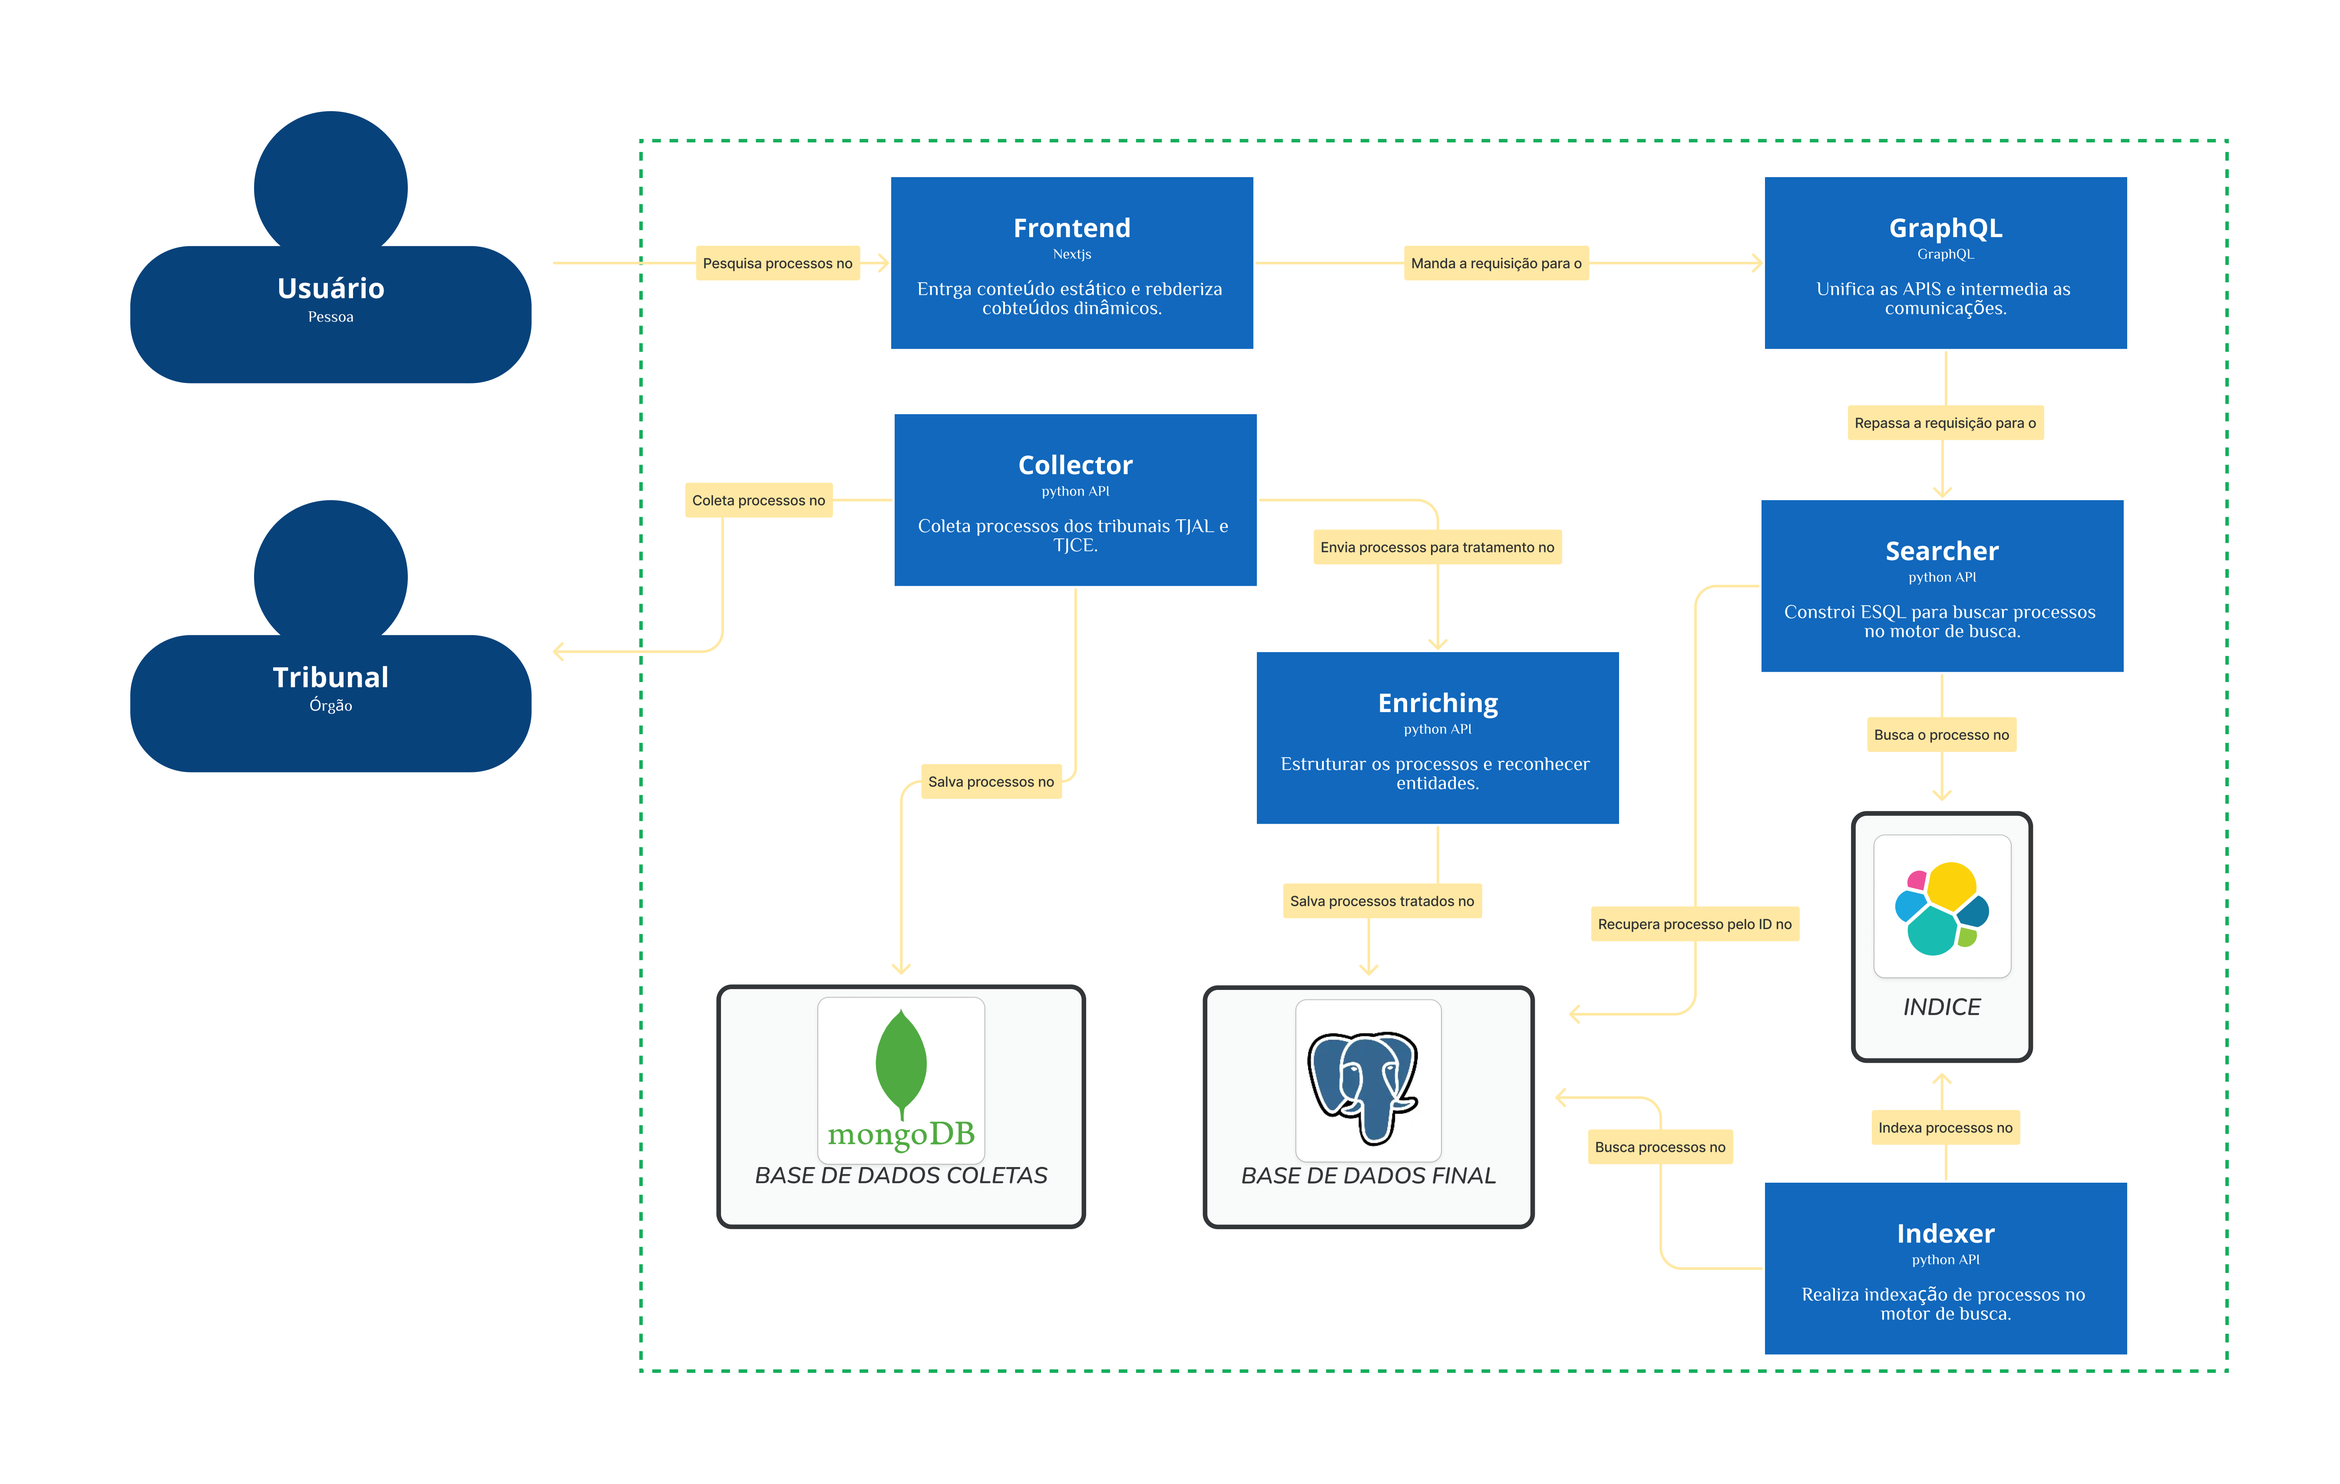
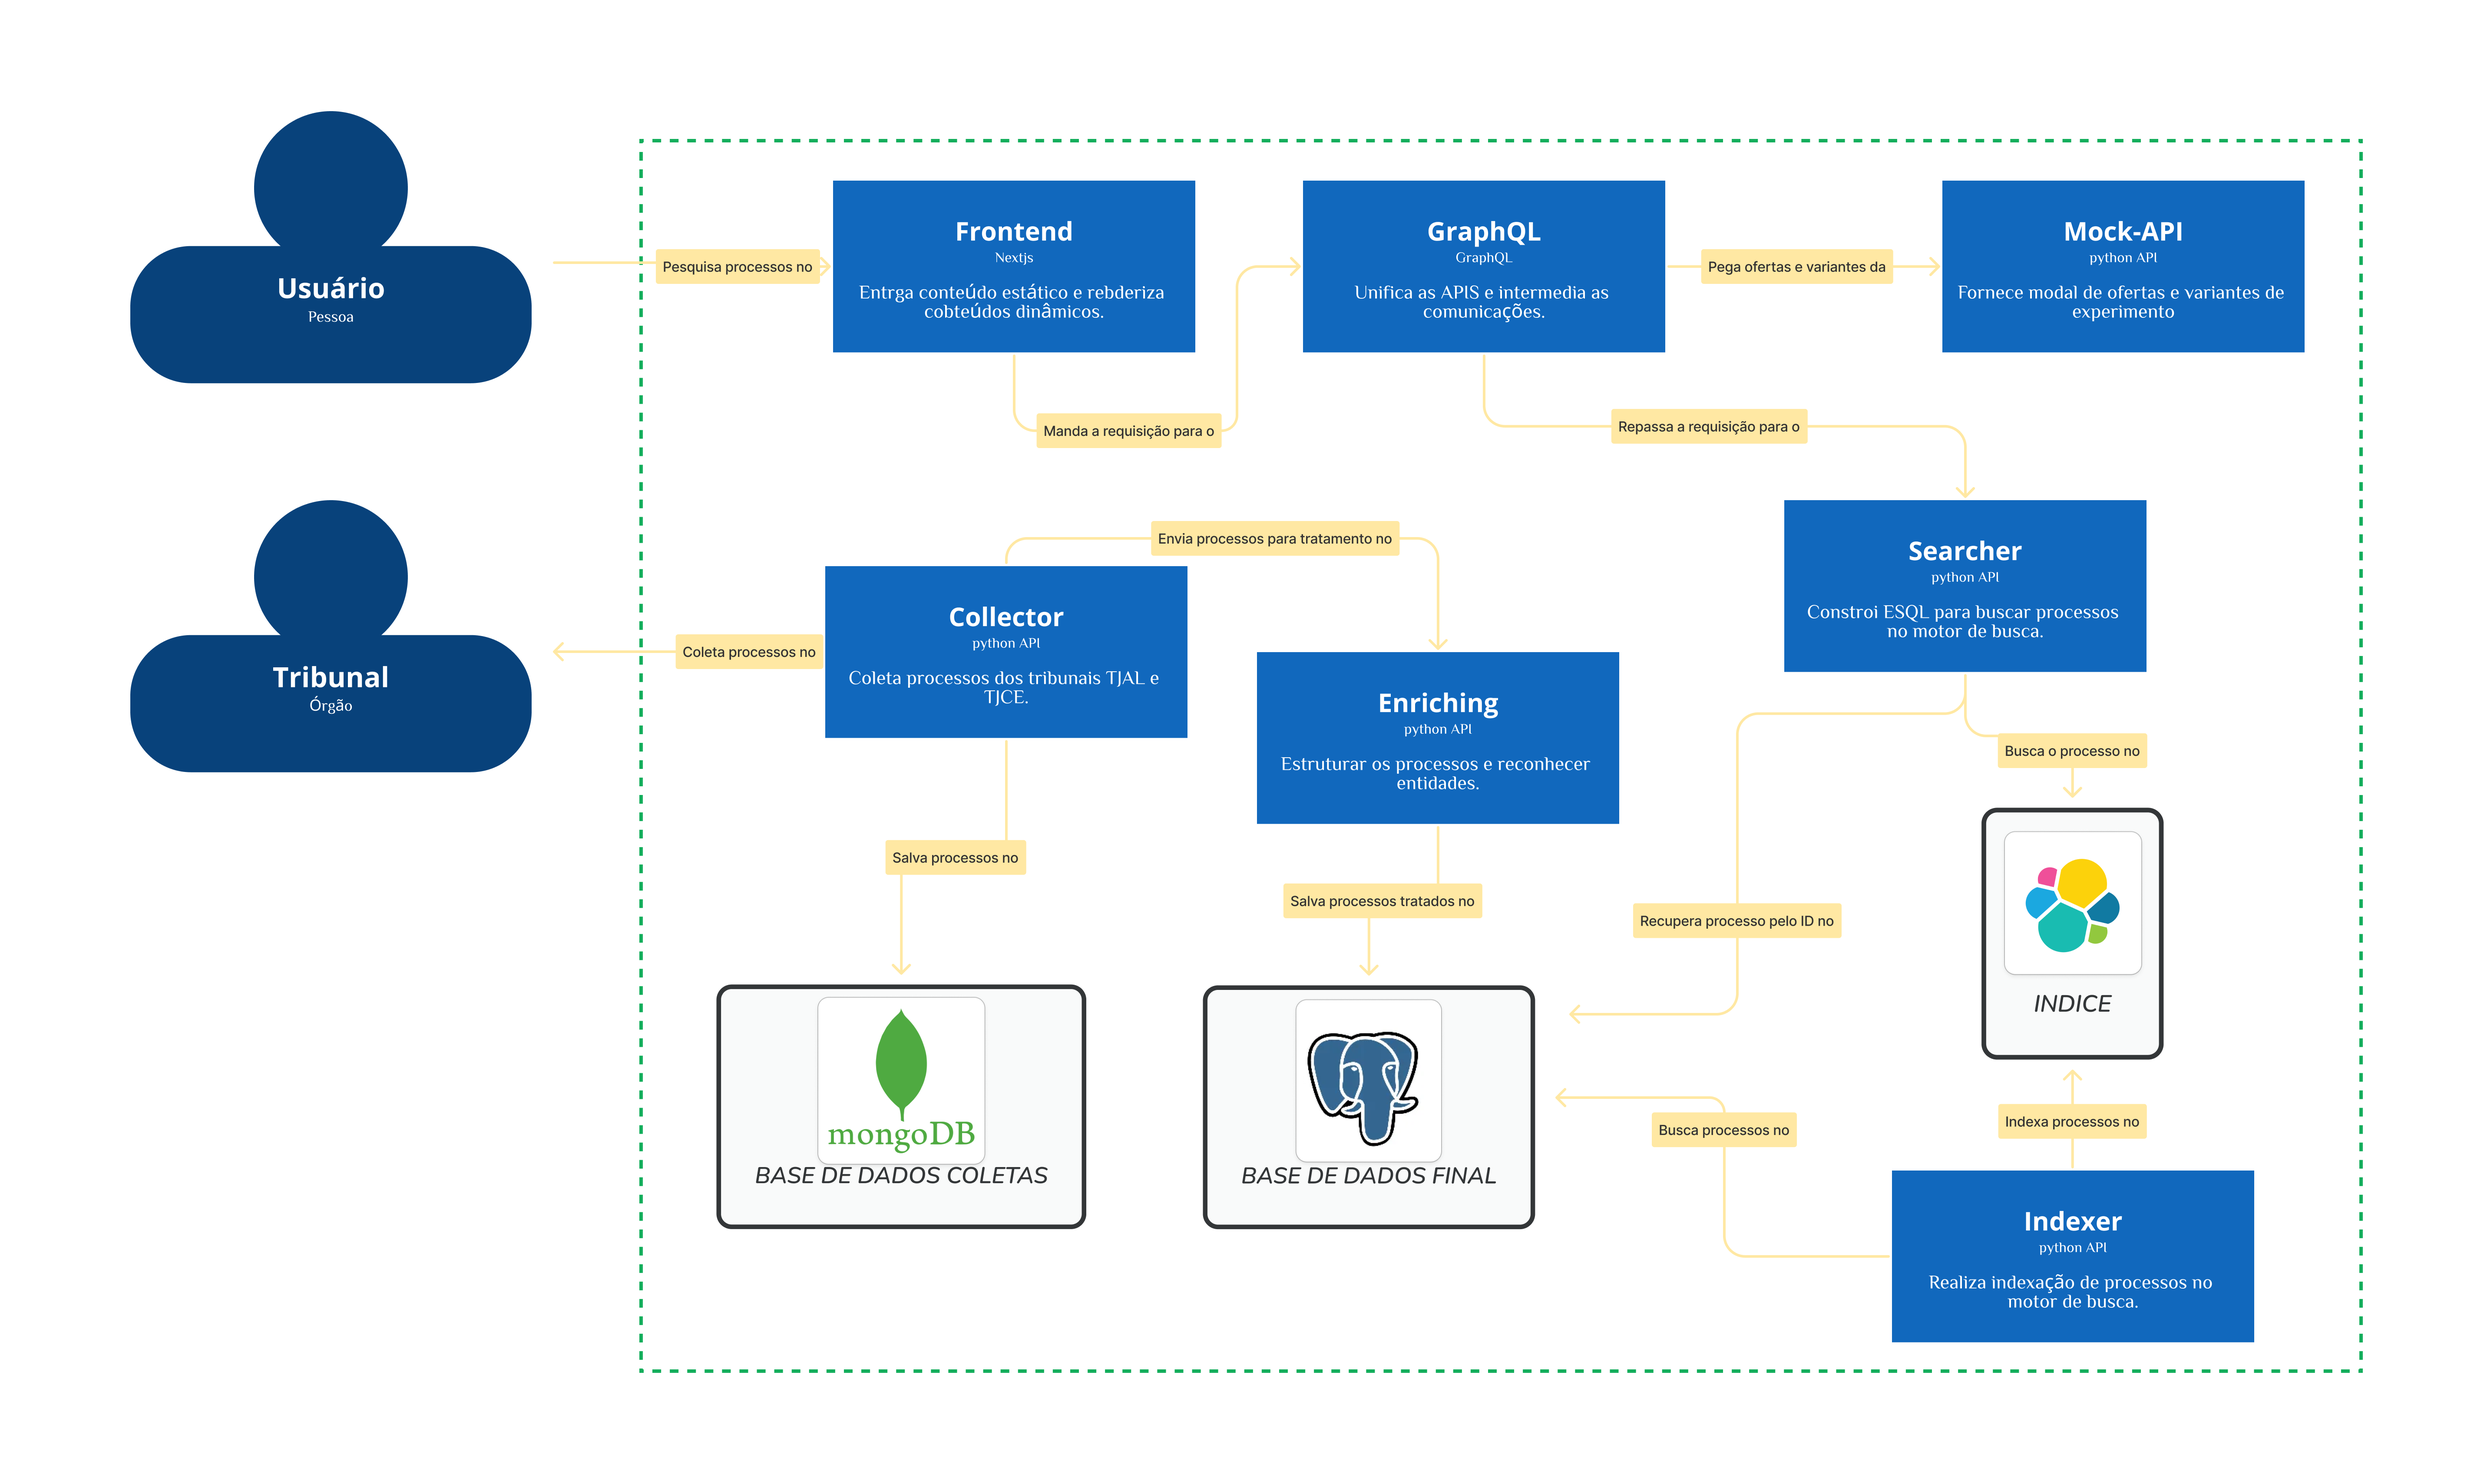
fix: ajustes na integração. Correção SERP vazia.

diff --git a/frontend-boilerplate/src/pages/index.tsx b/frontend-boilerplate/src/pages/index.tsx
@@ -107,7 +107,7 @@ const Home: FC = () => {
   padronizar os erros
   testes de integração
   */
-  const [simulating] = useState<boolean>(true); 
+  const [simulating] = useState<boolean>(false); 
 
   const { loading: loadingVariant} = useQuery(SORTED_EXP_QUERY, {
     variables: { alternative }, 
@@ -196,7 +196,7 @@ const Home: FC = () => {
         </div>
       )}
       <SearchBar onSearch={handleSearch} />
-      {!selectedProcess && results.length > 0 && <ResultList results={results} onSelect={handleSelectProcess} />}
+      {!selectedProcess &&  <ResultList results={results} onSelect={handleSelectProcess} />}
       {selectedProcess && (
         <ProcessDetails
           process={selectedProcess}

diff --git a/frontend-boilerplate/src/components/ResultList.tsx b/frontend-boilerplate/src/components/ResultList.tsx
@@ -13,9 +13,12 @@ interface ResultListProps {
 }
 
 const ResultList: FC<ResultListProps> = ({ results, onSelect }) => {
+  console.log(results)
   return (
     <div className={styles.resultList}>
-      {results.map((result) => (
+      {results.length === 0 || results[0] === undefined? (
+        <p> Não conseguimos encontrar um resultado para a sua pesquisa :(</p>
+      ) : (results.map((result) => (
         <div 
           key={result.id} 
           className={styles.resultItem}
@@ -27,7 +30,7 @@ const ResultList: FC<ResultListProps> = ({ results, onSelect }) => {
             onSelect={onSelect} 
           />
         </div>
-      ))}
+      )))}
     </div>
   );
 };

diff --git a/README.md b/README.md
@@ -22,20 +22,29 @@ docker-compose build
 Para subir a infraestrutura, execute na raiz do projeto:
 
 ```bash
-make run-infra
+make run-app
 ```
 
-Para subir os tópicos do kafka, execute na raiz do projeto:
+### backend-graphql
+Para subir o graphql, execute:
 
 ```bash
-make run-pipeline-kb-apps
+make run-graphql
 ```
 
-Para subir a api de coletas, execute na raiz do projeto:
+### frontend
+Para subir o frontend, execute:
 
 ```bash
-make run-coletas-api 
+make run-frontend
 ```
+
+Você poderá visualizar a página em:
+
+```bash
+http://localhost:3000
+```
+
 ### Indexação
 
 Verififque se há dados salvos no banco de dados antes de iniciar a indexação. Para isso execute o comando a seguir, ele irá disparar um script em python para fazer 8 requisições à API de coletas. O fluxo do pipeline deve seguir e assim os dados serão inseridos no postgres.
@@ -50,45 +59,7 @@ Para realizar o pipeline de indexação do elasticsearch, execute:
 make run-indexer-pipeline
 ```
 
-### Buscador
-
-Para subir o serviço de busca, execute:
-
-```bash
-make run-searcher
-```
-
-## backend-graphql
-Para subir o graphql que se comunica com a mock-api, execute:
-
-```bash
-cd backend-graphql
-```
-```bash
-pnpm i
-```
-```bash
-pnpm run dev
-```
-
-## frontend
-Para subir o frontend, execute:
-
-```bash
-cd frontend-boilerplate
-```
-```bash
-pnpm i
-```
-```bash
-pnpm run dev
-```
-
-Você poderá visualizar a página em:
-
-```bash
-http://localhost:3000
-```
+13 documentos deverão ser indexados no elasticsearch.
 
 ### Testes
 
